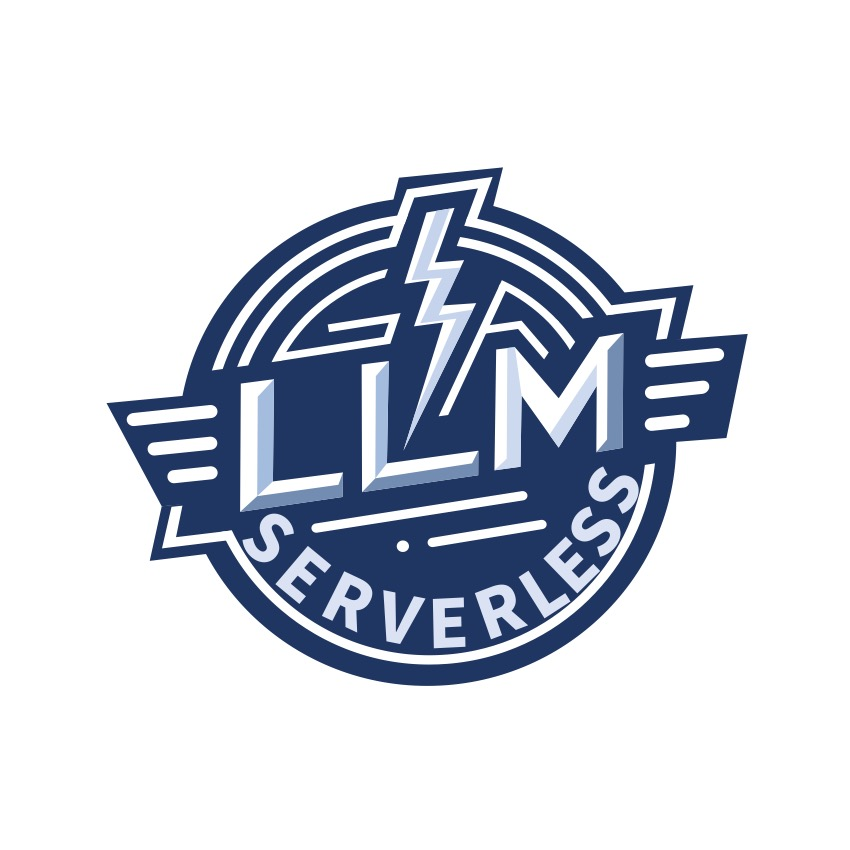
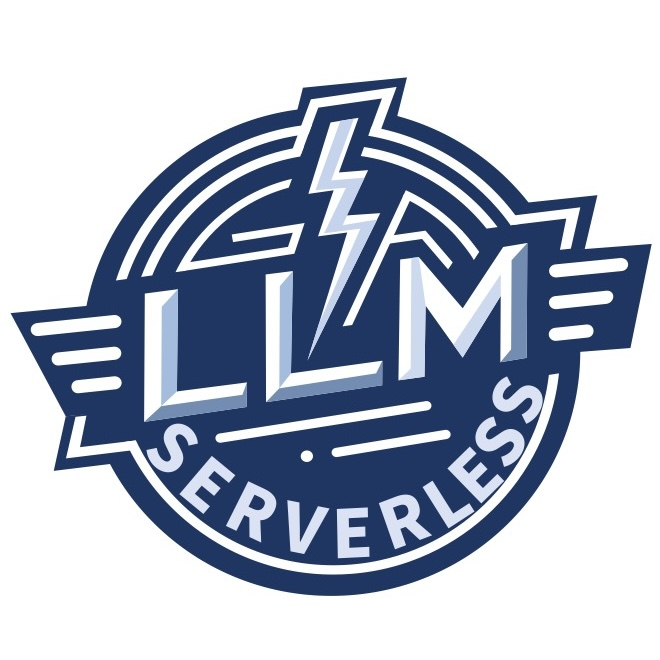
docs: update documents (#50)
# Overview

This pr improves documents:

- [x] Upload a better fitting logo
- [x] Update front page
- [x] Update citation
- [x] Add Discord and other links in the README file

diff --git a/docs/stable/intro.md b/docs/stable/intro.md
@@ -4,24 +4,28 @@ sidebar_position: 1
 
 # Serverless LLM
 
-<!-- logo (../images/serverlessllm.jpg) -->
-![ServerlessLLM](../images/serverlessllm.jpg)
+<!-- Scaled logo -->
+<img src="../images/serverlessllm.jpg" alt="ServerlessLLM" width="256px">
 
-ServerlessLLM is a fast, affordable, and easy-to-use library designed for multi-LLM serving, also known as [Serverless Inference](https://docs.aws.amazon.com/sagemaker/latest/dg/serverless-endpoints.html), [Inference Endpoint](https://huggingface.co/inference-endpoints/dedicated), or [Model Endpoints](https://learn.microsoft.com/en-us/azure/machine-learning/concept-endpoints?view=azureml-api-2). This library is ideal for environments with limited GPU resources, as it allows efficient dynamic loading of models onto GPUs. By supporting high levels of GPU multiplexing, it maximizes GPU utilization without the need to dedicate GPUs to individual models.
+ServerlessLLM is a **fast** and **easy-to-use** serving system designed for **affordable** multi-LLM serving, also known as LLM-as-a-Service. ServerlessLLM is ideal for environments with multiple LLMs that need to be served on limited GPU resources, as it enables efficient dynamic loading of LLMs onto GPUs. By elastically scaling model instances and multiplexing GPUs, ServerlessLLM can significantly reduce costs compared to traditional GPU-dedicated serving systems while still providing low-latency (Time-to-First-Token, TTFT) LLM completions.
 
 ## Documentation
 
 ### Getting Started
 
 - [Install ServerlessLLM](./getting_started/installation.md)
-- [Deploy a ServerlessLLM cluster on your local machine](./getting_started/quickstart.md)
-- [Deploy ServerlessLLM using Docker (Recommended)](./getting_started/docker_quickstart.md)
-- [Deploy ServerlessLLM on a multi-machine cluster](./getting_started/multi_machine_setup.md)
+- [Quickstart](./getting_started/quickstart.md)
+- [Quickstart with Docker](./getting_started/docker_quickstart.md)
+- [Multi-machine Quickstart](./getting_started/multi_machine_setup.md)
+
+### ServerlessLLM Serve
+
+- [Storage-Aware Scheduler](./serve/storage_aware_scheduling.md)
 
 ### ServerlessLLM Store
 
-- [Use ServerlessLLM Store in your own code](./store/quickstart.md)
+- [Quickstart](./store/quickstart.md)
 
 ### ServerlessLLM CLI
 
-- [ServerlessLLM CLI Documentation](./cli/cli_api.md)
+- [ServerlessLLM CLI API](./cli/cli_api.md)

diff --git a/README.md b/README.md
@@ -1,5 +1,12 @@
 <p align="center">
-  <img src="./docs/images/serverlessllm.jpg" alt="ServerlessLLM Logo" width="30%">
+  <picture>
+    <img src="./docs/images/serverlessllm.jpg" alt="ServerlessLLM" width="30%">
+  </picture>
+</p>
+
+<p align="center">
+| <a href="https://serverlessllm.github.io"><b>Documentation</b></a> | <a href="https://www.usenix.org/conference/osdi24/presentation/fu"><b>Paper</b></a> | <a href="https://discord.gg/AEF8Gduvm8"><b>Discord</b></a> |
+
 </p>
 
 # ServerlessLLM
@@ -50,10 +57,11 @@ ServerlessLLM is actively maintained and developed by those [Contributors](./CON
 If you use ServerlessLLM for your research, please cite our [paper](https://arxiv.org/abs/2401.14351):
 
 ```bibtex
-@article{fu2024serverlessllm,
+@inproceedings{fu2024serverlessllm,
   title={ServerlessLLM: Low-Latency Serverless Inference for Large Language Models},
   author={Fu, Yao and Xue, Leyang and Huang, Yeqi and Brabete, Andrei-Octavian and Ustiugov, Dmitrii and Patel, Yuvraj and Mai, Luo},
-  booktitle={USENIX Symposium on Operating Systems Design and Implementation (OSDI'24)},
+  booktitle={18th USENIX Symposium on Operating Systems Design and Implementation (OSDI 24)},
+  pages={135--153},
   year={2024}
 }
 ```

diff --git a/docs/stable/getting_started/docker_quickstart.md b/docs/stable/getting_started/docker_quickstart.md
@@ -13,9 +13,9 @@ Ensure you have the following pre-requirements installed:
 1. **GPUs**: Ensure you have at least 2 GPUs available. If more GPUs are provided, you can adjust the number of workers and the number of devices assigned to each worker.
 2. **NVIDIA Docker Toolkit**: This allows Docker to use NVIDIA GPUs. You can find the installation guide [here](https://docs.nvidia.com/datacenter/cloud-native/container-toolkit/install-guide.html).
 
-## Local Test Using Docker
+## Run ServerlessLLM using Docker
 
-First, let's start a local Docker-based ray cluster to test the ServerlessLLM. 
+First, let's start a local Docker-based ray cluster to run ServerlessLLM. 
 
 ### Step 1: Build Docker Images
 

diff --git a/docs/stable/getting_started/quickstart.md b/docs/stable/getting_started/quickstart.md
@@ -6,8 +6,8 @@ sidebar_position: 1
 
 This guide will help you get started with the basics of using ServerlessLLM. Please make sure you have installed the ServerlessLLM following the [installation guide](./installation.md).
 
-## Local test
-First, let's start a local ray cluster to test the ServerlessLLM. You can start a local ray cluster by running the following command:
+## Run ServerlessLLM on your local machine
+First, let's start a local ray cluster to run ServerlessLLM. You can start a local ray cluster by running the following command:
 
 Start a local ray cluster with 1 head node and 1 worker node:
 ```bash
